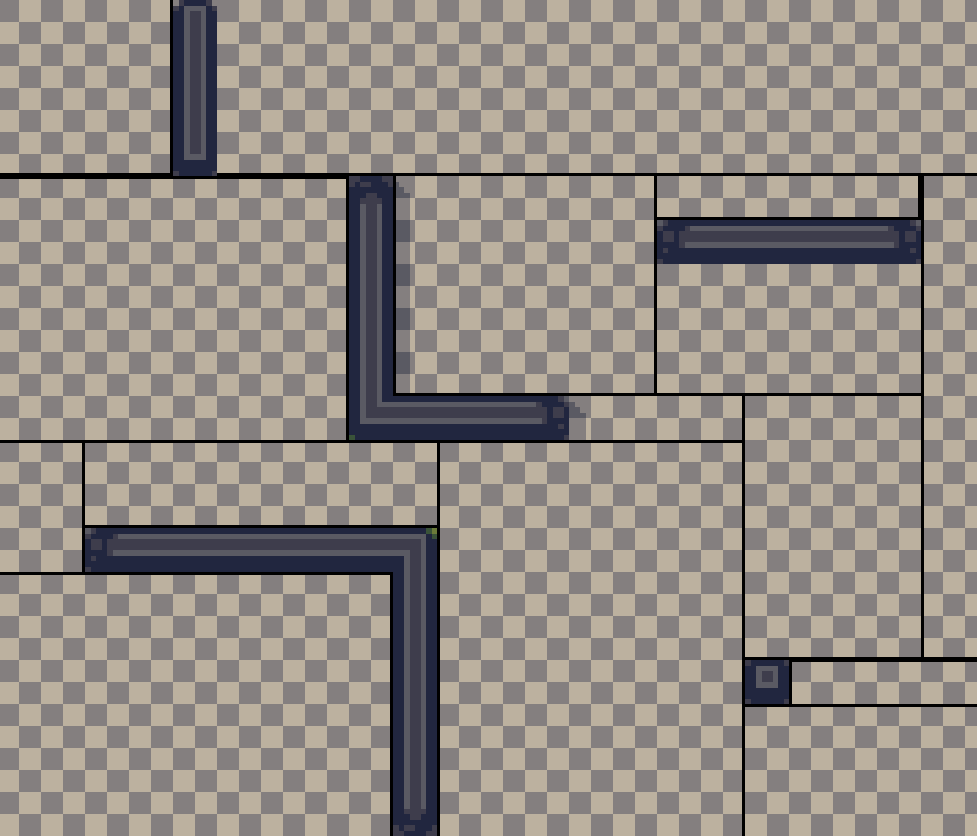
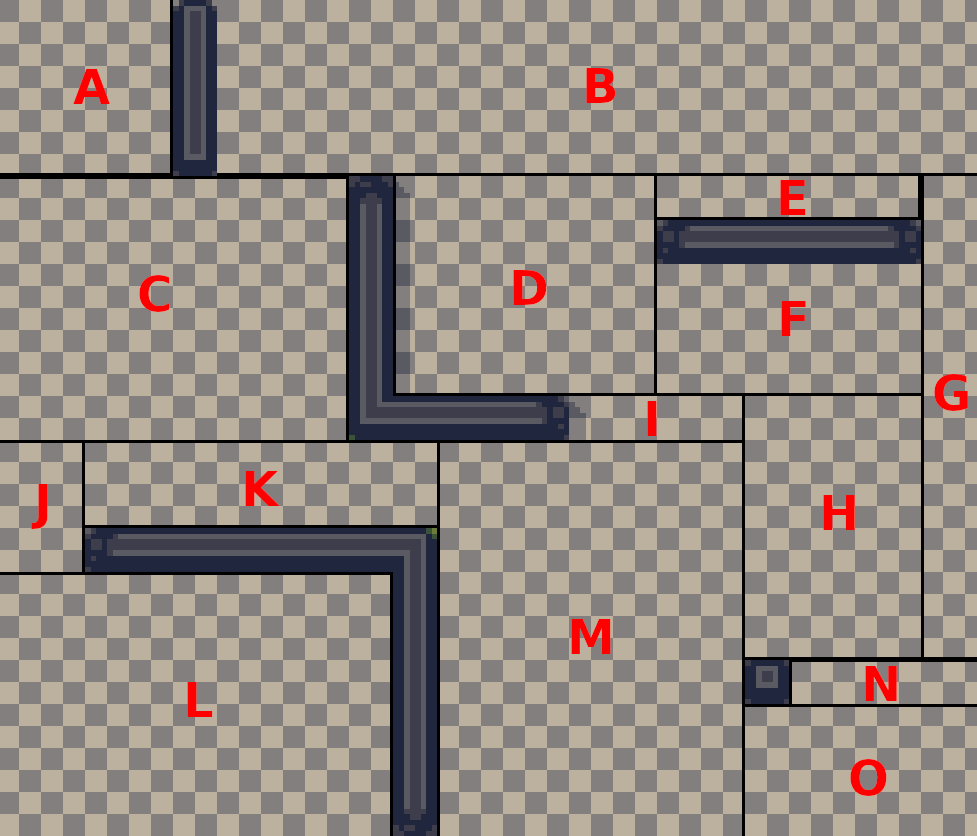
Added new image in 006_003 + Fixed nav_mesh3
Removed redundant edge in nav_mesh3

diff --git a/chapters/006_Advanced_Topics/003_AI.md b/chapters/006_Advanced_Topics/003_AI.md
@@ -117,11 +117,15 @@ To make the abstraction easier to understand, let's take a look at the following
 
 The first step is to divide the map into convex polygons, in our case we will use rectangles.
 
-![Dividing the map into many convex polygons [^jawbreaker]](./images/AI/nav_mesh2.png){width=60%}
+![Dividing the map into many convex polygons and labelling them [^jawbreaker]](./images/AI/nav_mesh2.png){width=60%}
 
 Now each rectangle is a node of our graph (and will have to be treated accordingly by the AI, knowing it can navigate freely inside each rectangle), now we need to connect each node, following the limitations given by the walls.
 
 ![Creating the graph [^jawbreaker]](./images/AI/nav_mesh3.png){width=60%}
+
+The graph will be look something like this, as a data structure:
+
+![The final data structure](./images/AI/nav_mesh4.svg){width=80%}
 
 {{placeholder}}
 
